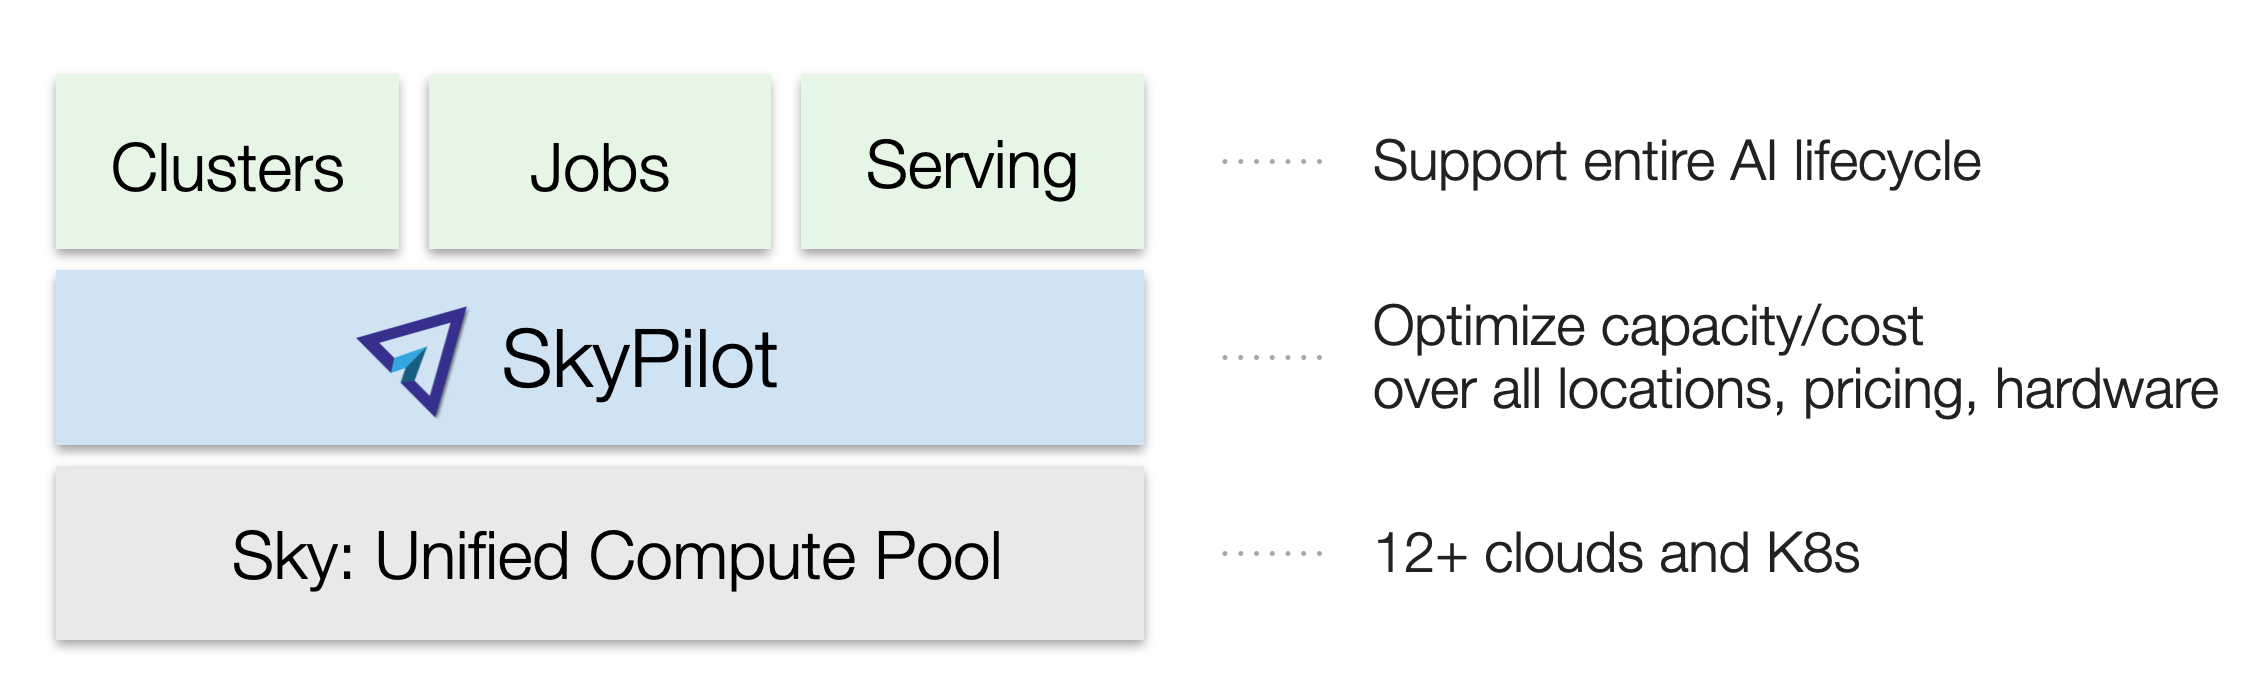
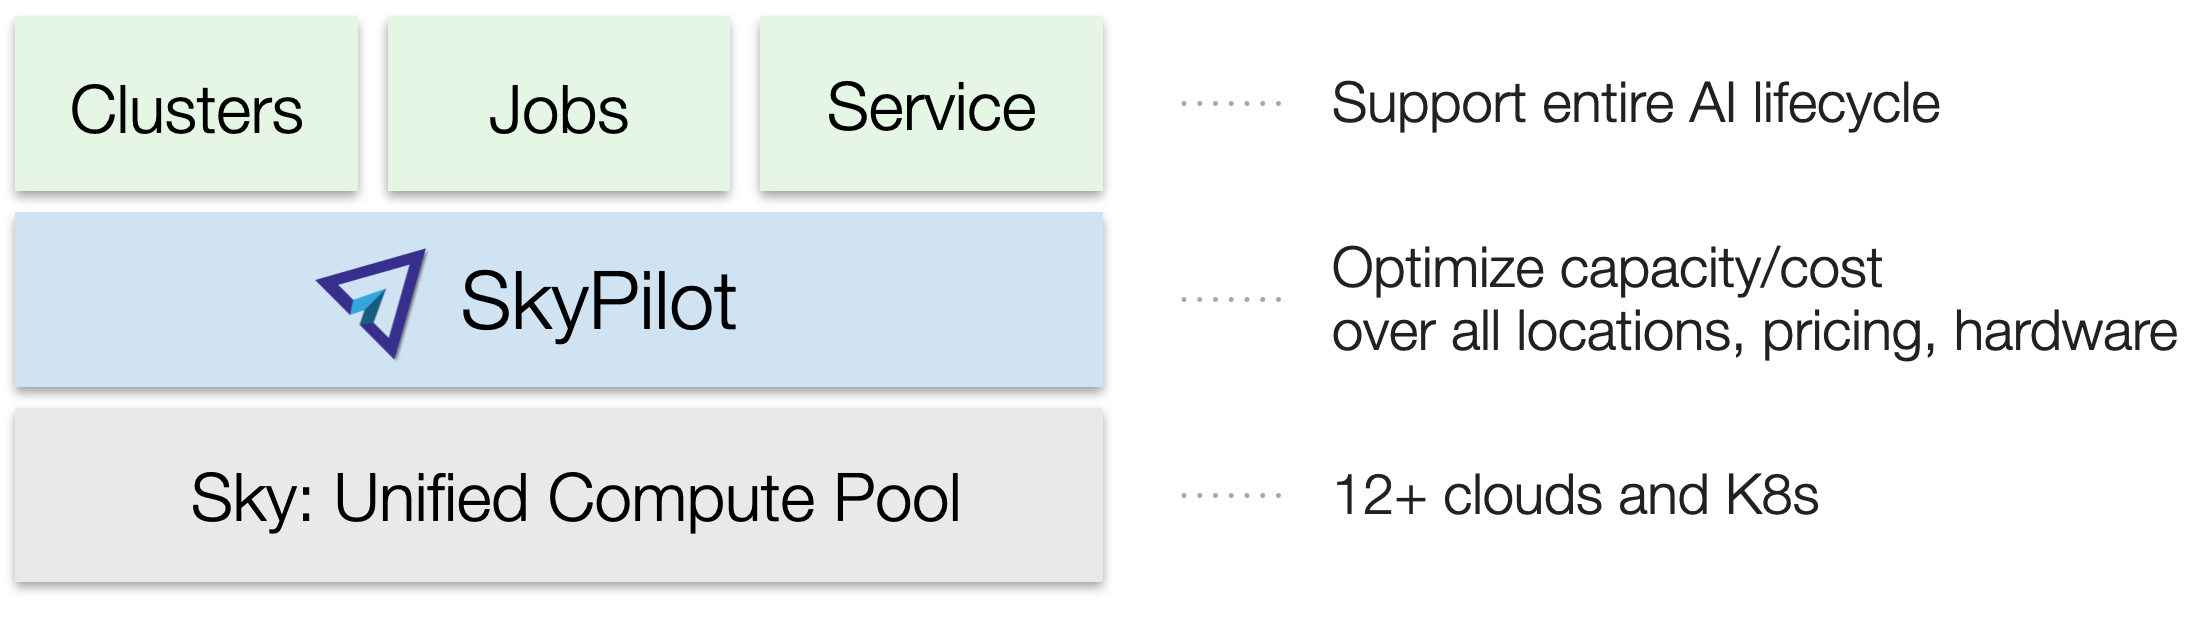
Updates

diff --git a/docs/source/getting-started/key-concepts.rst b/docs/source/getting-started/key-concepts.rst
@@ -24,7 +24,7 @@ You can then run workloads on this pool in a unified interface, using these core
 
 - Clusters
 - Jobs
-- Serving
+- Services
 
 .. - :ref:`Dev clusters <concept-dev-clusters>`
 .. - :ref:`Jobs <concept-jobs>`
@@ -33,8 +33,8 @@ You can then run workloads on this pool in a unified interface, using these core
 
 .. With these, you can use SkyPilot to run all use cases in the entire AI and batch job lifecycle:
 
-These abstractions allow you to run all use cases in the AI and batch job lifecycle:
-development, (pre)training, massively parallel tuning/batch inference, and online serving.
+These abstractions allow you to run all use cases in the AI lifecycle:
+Batch processing, development, (pre)training, massively parallel tuning/batch inference, and online serving.
 
 
 .. - :ref:`Jobs on dev clusters <concept-jobs-on-dev-cluster>`
@@ -60,18 +60,21 @@ In SkyPilot, every workload benefits from:
 
     When launching a workload, SkyPilot will automatically choose the cheapest and most available infra choice in your search space.
 
-.. dropdown:: Auto-fallback across infra choices
+.. dropdown:: Auto-failover across infra choices
 
     When launching a workload, you can give SkyPilot a search space of infra
-    choices --- as unrestricted or as specific as you like. If an infra choice has no capacity,
+    choices --- as unrestricted or as specific as you like.
+
+    If an infra choice has no capacity,
     SkyPilot automatically falls back to the next best choice in your infra search space.
 
-.. dropdown:: Future-proof your infra
+.. dropdown:: No cloud lock-in
 
-    Should you add infra choices (e.g., a new cloud, region, or cluster) in the future, your workloads automatically get the ability to leverage them.
-    No complex retooling or workflow changes.
+    Should you add infra choices (e.g., a new cloud, region, or cluster) in the future, your existing workloads can easily run on them.
+    No complex migration or workflow changes.
     See the underlying :ref:`Sky Computing <sky-computing>` vision.
 
+.. .. dropdown:: Future-proof your infra
 
 .. At its core, SkyPilot provides a "kernel", the ``sky launch`` CLI/API, that forms the basis of all three
 .. abstractions.
@@ -94,7 +97,7 @@ Clusters
 
 .. A cluster is a set of nodes --- VMs, or pods in Kubernetes --- which are interconnected in one location (the same zone/k8s cluster).
 
-A *cluster* is SkyPilot's core resource unit: a set of VMs or Kubernetes pods in the same location.
+A *cluster* is SkyPilot's core resource unit: one or more VMs or Kubernetes pods in the same location.
 
 .. A *cluster* is a set of VMs or Kubernetes pods in the same location.
 .. It is the core resource unit in SkyPilot.
@@ -127,9 +130,9 @@ You can do the following with a cluster:
 
 - SSH into any node
 - Connect VSCode/IDE to it
-- Queue many jobs on it
-- Have it automatically shut down or stop after jobs finish
-- Easily launch and use many lightweight, ephemeral clusters
+- Submit and queue many jobs on it
+- Have it automatically shut down or stop to save costs
+- Easily launch and use many virtual, ephemeral clusters
 
 .. - Treat it as your dev machine on the cloud
 .. - ...and more
@@ -154,15 +157,29 @@ See :ref:`quickstart` and :ref:`dev-cluster` to get started.
 Jobs
 ------------
 
-A *job* is a program you want to run.
+A *job* is a program you want to run. Two types of jobs are supported:
+
+.. list-table::
+   :widths: 50 50
+   :header-rows: 1
+   :align: center
+
+   * - **Jobs on Clusters**
+     - **Managed Jobs**
+   * - Usage: ``sky exec``
+     - Usage: ``sky jobs launch``
+   * - Jobs are submitted to an existing cluster and reuse that cluster's setup.
+     - Each job runs in its own temporary cluster, with auto-recovery.
+   * - Ideal for interactive development and debugging on an existing cluster.
+     - Ideal for jobs requiring recovery (e.g., spot instances) or scaling to many parallel jobs.
+
 
 .. A job can contain one or more tasks; that said, most jobs have only one task, and we will refer to "job" and "task" interchangeably.
 
-.. tip::
 
-    *Terminology*: A job can contain one or :ref:`more <pipeline>` tasks. In most cases, a job has just one task; we'll refer to them interchangeably.
+A job can contain one or :ref:`more <pipeline>` tasks. In most cases, a job has just one task; we'll refer to them interchangeably.
 
-    .. *Terminology*: While :ref:`certain jobs <pipeline>` can have multiple tasks, most jobs have only one task, where we will refer to "job" and "task" interchangeably.
+.. *Terminology*: While :ref:`certain jobs <pipeline>` can have multiple tasks, most jobs have only one task, where we will refer to "job" and "task" interchangeably.
 
 
 
@@ -172,7 +189,7 @@ Jobs on clusters
 ~~~~~~~~~~~~~~~~~~~~~~~~~~~~~~~
 
 You can use ``sky exec`` to queue and run jobs on an existing cluster.
-This is ideal for interactive development.
+This is ideal for interactive development, reusing a cluster's setup.
 
 See :ref:`job-queue` to get started.
 
@@ -189,8 +206,8 @@ See :ref:`job-queue` to get started.
             # Fractional GPUs are also supported.
             sky exec my-cluster --gpus L4:0.5 -- python eval.py
 
-            # A job with no GPU requirement.
-            sky exec my-cluster -- echo "Hello, SkyPilot!"
+            # Multi-node jobs are also supported.
+            sky exec my-cluster --num-nodes 2 -- hostname
 
     .. tab-item:: Python
         :sync: python
@@ -217,11 +234,14 @@ Managed jobs
 
 
 *Managed jobs* automatically provision a temporary cluster for each job and handle
-auto-recovery. A lightweight jobs controller is used to offer hands-off monitoring, recovery, and cleanup.
+auto-recovery. A lightweight jobs controller is used to offer hands-off monitoring and recovery.
 You can use ``sky jobs launch`` to launch managed jobs.
 
 .. A *managed job* runs on its own job-scoped cluster, and it
 .. comes with auto-recovery offered by a lightweight jobs controller.
+
+Managed jobs are especially ideal for running jobs on preemptible spot instances (e.g.,
+finetuning, batch inference). Spot GPUs can typically save 3--6x costs.
 
 Suggested pattern: Use clusters to interactively develop and debug your code first, and then
 use managed jobs to run them at scale.
@@ -260,7 +280,9 @@ Bringing your infra
 
 .. SkyPilot is designed to easily connect to your existing infra.
 .. By default, existing auth is reused.
-SkyPilot easily connects to your existing infra---cloud accounts, Kubernetes clusters, or on-prem machines---using each infra's standard authentication (cloud credentials, kubeconfig, SSH).
+SkyPilot easily connects to your existing infra---cloud accounts, Kubernetes
+clusters, or on-prem machines---using each infra's native authentication
+(cloud credentials, kubeconfig, SSH).
 
 Cloud VMs
 ~~~~~~~~~~~~~~~~~~~~~~~~~~~~~~~
@@ -292,13 +314,13 @@ Kubernetes clusters
 ~~~~~~~~~~~~~~~~~~~~~
 
 You can bring existing Kubernetes clusters, including managed clusters (e.g.,
-EKS, GKE, AKS) or on-prem ones, into SkyPilot.  Auto-fallback and failover
+EKS, GKE, AKS) or on-prem ones, into SkyPilot.  Auto-failover
 between multiple Kubernetes clusters is also supported.
 
 See :ref:`kubernetes-overview`.
 
 .. figure:: ../images/k8s-skypilot-architecture-dark.png
-   :width: 45%
+   :width: 50%
    :align: center
    :alt: SkyPilot on Kubernetes
    :class: no-scaled-link, only-dark
@@ -306,7 +328,7 @@ See :ref:`kubernetes-overview`.
    SkyPilot layers on top of your Kubernetes cluster(s).
 
 .. figure:: ../images/k8s-skypilot-architecture-light.png
-   :width: 45%
+   :width: 50%
    :align: center
    :alt: SkyPilot on Kubernetes
    :class: no-scaled-link, only-light
@@ -335,45 +357,64 @@ See :ref:`Using Existing Machines <existing-machines>`.
    :class: no-scaled-link, only-dark
 
 .. ``sky launch``: Any-infra provisioner and orchestrator
+.. ``sky launch``: Cost and capacity-optimizing provisioner
 
-``sky launch``: Cost and capacity-optimizing provisioner
+SkyPilot's cost and capacity optimization
 -------------------------------------------------------------------
 
 .. TODO: Kind of weird to call an CLI a provisioner/orchestrator. Also, this is describing the hammer.
 
-How does SkyPilot offer (1) unified execution across infra, and (2) cost and capacity optimization?
+.. How does SkyPilot offer (1) unified execution across infra, and (2) cost and capacity optimization?
 
-.. , and all higher-level abstractions/libraries (managed jobs; serving) util
-.. upon it.
+.. .. , and all higher-level abstractions/libraries (managed jobs; serving) util
+.. .. upon it.
 
-.. is used to launch dev clusters. It
+.. .. is used to launch dev clusters. It
 
 
-In SkyPilot, ``sky launch``  is the core "kernel"
-that delivers these benefits.  It is used to launch all underlying compute resources.
-Every ``sky launch`` performs the following:
+.. In SkyPilot, ``sky launch``  is the core "kernel"
+.. that delivers these benefits.  It is used to launch all underlying compute resources.
+.. Every ``sky launch`` performs the following:
 
-- Natively optimizes for cost and capacity in the given search space
-- Provisions compute resources with auto-fallback
-- Sets up the environment (images, dependencies, file mounts, etc.) in an infrastructure-as-code manner
+.. - Natively optimizes for cost and capacity in the given search space
+.. - Provisions compute resources with auto-failover
+.. - Sets up the environment (images, dependencies, file mounts, etc.) in an infrastructure-as-code manner
+
+SkyPilot comes with a provisioner that natively optimizes for cost and capacity whenever it is provisioning compute.
+(This applies to all compute needed for clusters, jobs, and services.)
 
 For example, if you want to launch 8 A100 GPUs, SkyPilot will try all infra
 options in the given search space  in the "cheapest and most available" order,
-offering auto-fallback:
+with auto-failover:
 
 .. figure:: https://blog.skypilot.co/ai-on-kubernetes/images/failover.png
-   :width: 85%
+   :width: 95%
    :align: center
    :alt: SkyPilot auto-failover
    :class: no-scaled-link
 
 As such, SkyPilot users no longer need to worry about specific infra details, manual retry, or manual setup.
-Workloads obtain higher GPU capacity and cost savings.
+Workloads also obtain higher GPU capacity and cost savings.
 
-Every launch can take a search space that is as flexible (e.g., use any of the accessible infra; any of the supported GPUs) or as specific (e.g., must use a specific zone or cloud) as you need.
-Optimization automatically occurs within the search space.
+.. Every launch can take a search space that is as flexible (e.g., use any of the accessible infra; any of the supported GPUs) or as specific (e.g., must use a specific zone or cloud) as you need.
 
-See :ref:`auto-failover` for more details.
+
+Users can specify each workload's search space. It can be as flexible or as specific as desired. Example search spaces that can be specified:
+
+- Use the cheapest and available GPUs out of a set, ``{A10g:8, A10:8, L4:8, A100:8}``
+- Use my Kubernetes cluster or any accessible clouds (pictured above)
+- Use either a spot or on-demand H100 GPU
+- Use AWS's five European regions only
+- Use a specific zone, region, or cloud
+
+Optimization is performed within the search space.
+See :ref:`auto-failover` for details.
+
+.. TODO: make this a bullet list. include spot/on-demand, GDPR, etc.
+
+.. Users can specify each workload's search space. It can be as flexible (e.g., use any of the accessible clouds, or any of the specified GPUs) or as specific (e.g., must use a specific zone or cloud) as you like.
+.. Optimization automatically occurs within the search space.
+
 
 
 .. - Schedules, executes, and monitors the workload on the compute resources.
